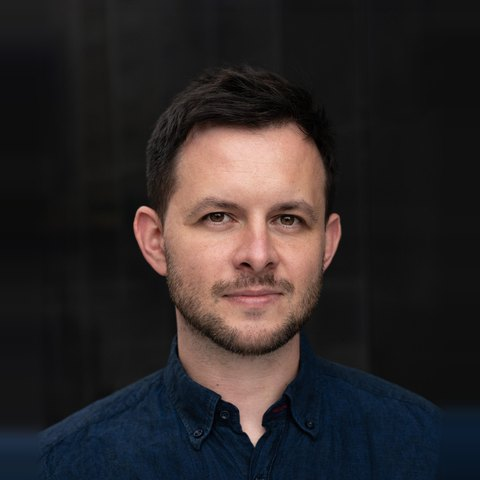
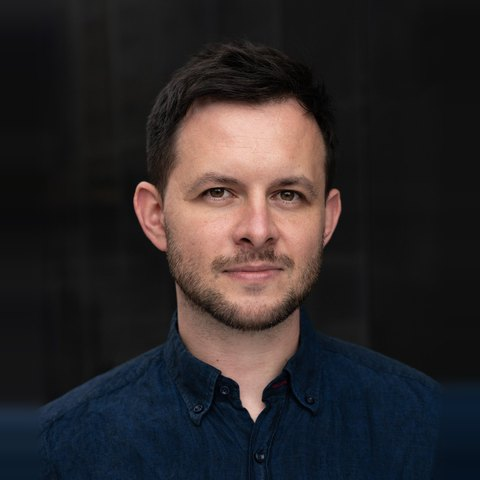
Empty Projects page, smaller hero name, photo framed lower
Claude-Session: https://claude.ai/code/session_01AeMfXLvJF1sd2JCbmHKHA6

Changed region(s): [[0.0, 0.0938, 0.7188, 1.0], [0.7188, 0.7188, 1.0, 0.8438], [0.6875, 0.6875, 0.7188, 0.75]]

diff --git a/styles/site.css b/styles/site.css
@@ -19,7 +19,7 @@ a:hover { text-decoration: underline; text-underline-offset: 3px; }
   font-family: "Source Serif 4", Georgia, serif; font-size: 2.6rem; color: var(--pm-accent);
   border: 1px solid var(--pm-badge-border); background: var(--pm-badge-bg);
 }
-.hero-name { margin: 0 0 .35rem; font-family: "Sitka Banner", "Sitka Text", "Source Serif 4", Georgia, serif; font-weight: 400; font-size: 2.4rem; line-height: 1.1; }
+.hero-name { margin: 0 0 .35rem; font-family: "Sitka Banner", "Sitka Text", "Source Serif 4", Georgia, serif; font-weight: 400; font-size: 2.1rem; line-height: 1.1; }
 .hero .role { margin: 0; color: var(--pm-muted); line-height: 1.45; }
 .profile-links { display: flex; flex-wrap: wrap; gap: .5rem; margin: .9rem 0 0; }
 .profile-links a {
